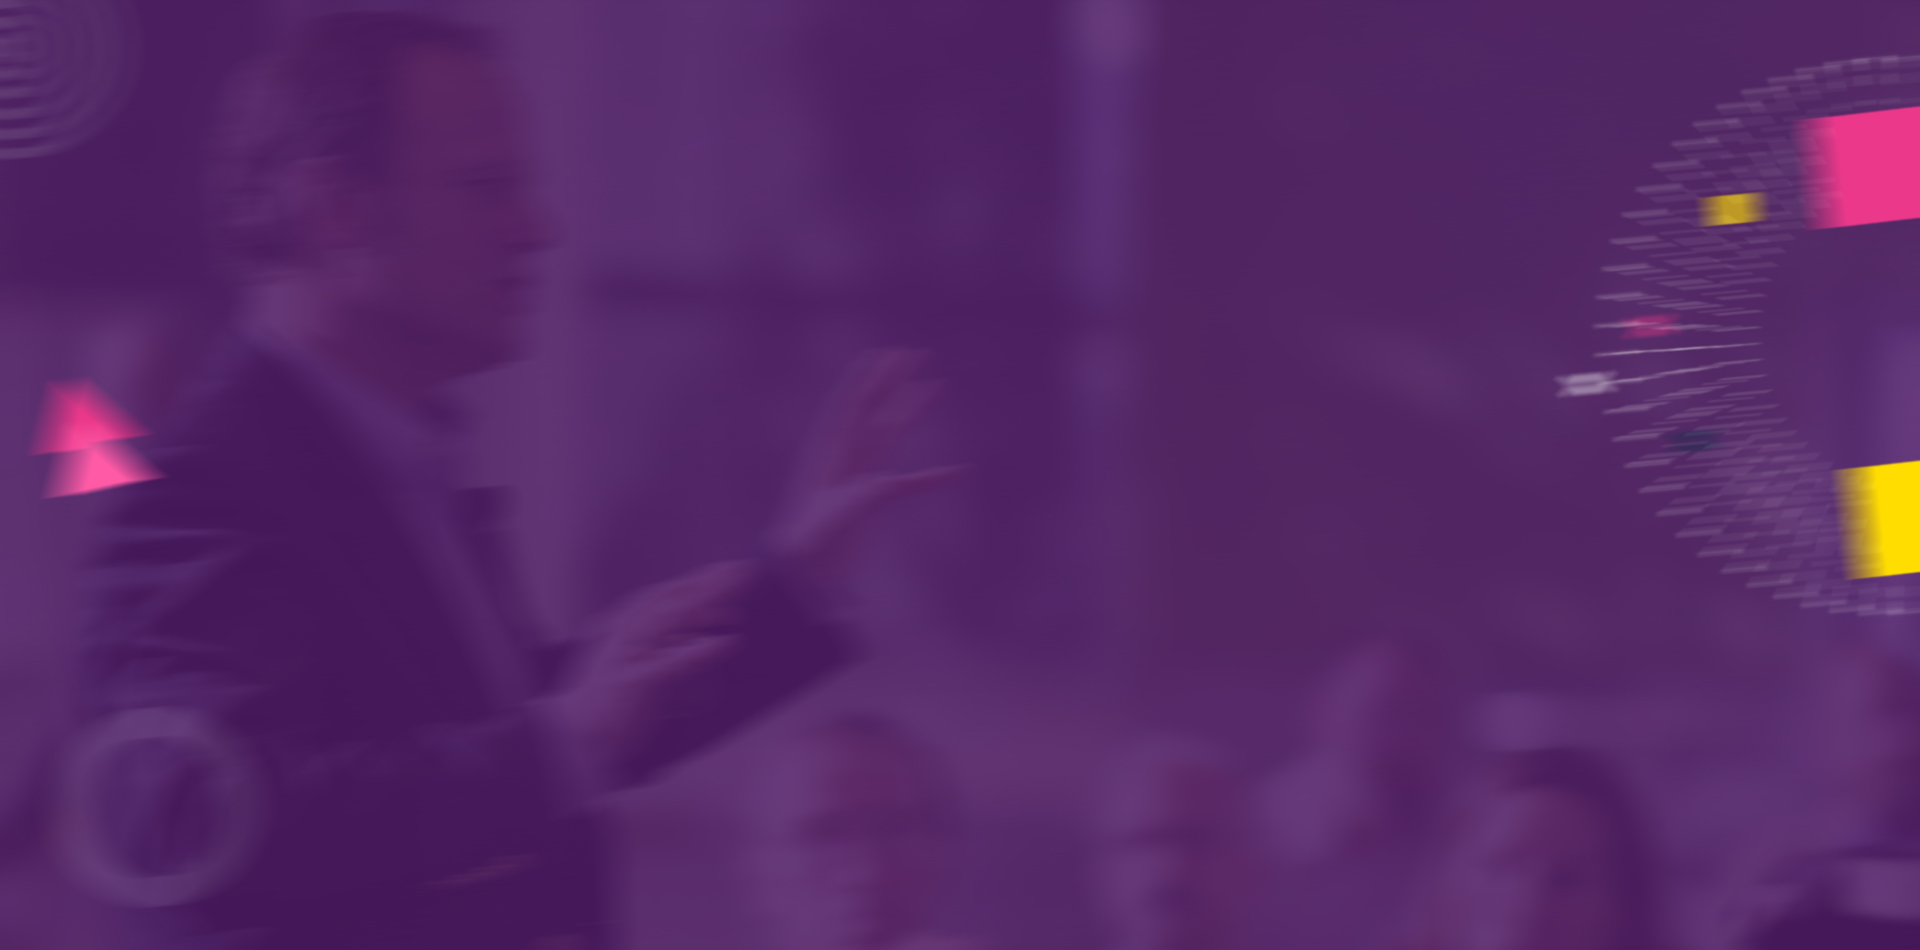
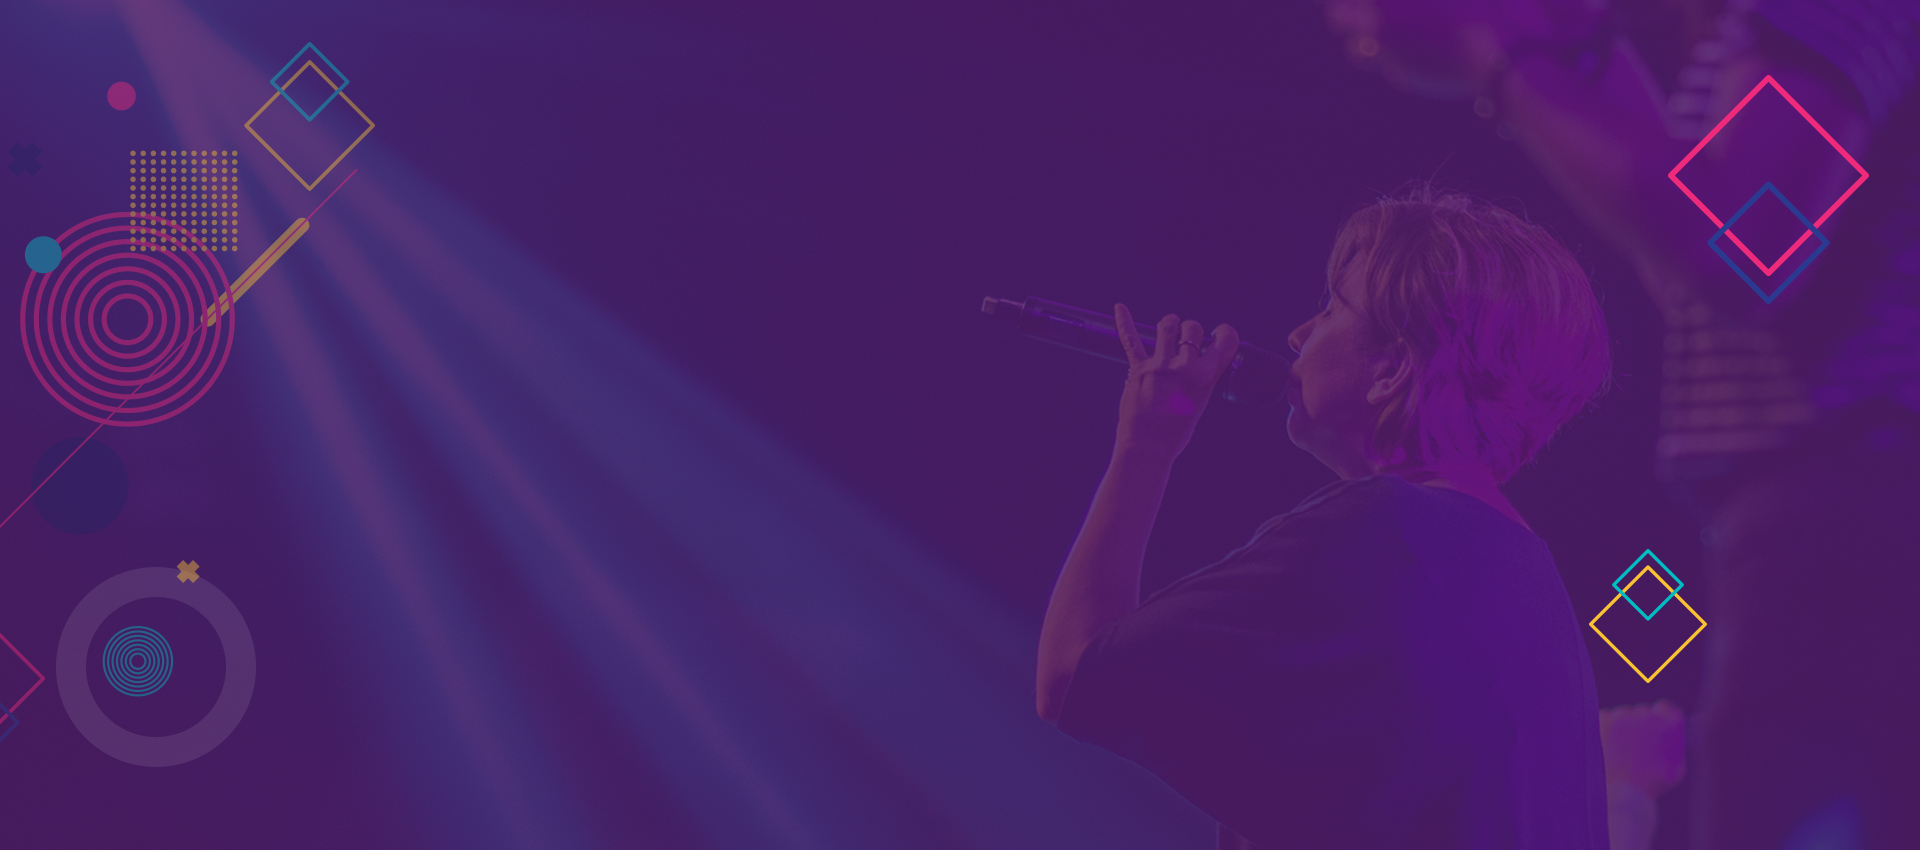
Image auto blur

diff --git a/css/style.css b/css/style.css
@@ -55,6 +55,7 @@
 
 html, body {
   font-family: 'Roboto', sans-serif;
+  overflow-x: hidden;
 }
 
 /*===================
@@ -62,13 +63,25 @@ html, body {
 ====================*/
 #event_header {
   padding: 40px 0;
+  position: relative;
+}
+#event_header:after {
+  position: absolute;
+  content: '';
+  top: 0;
+  left: 0;
+  width: 100%;
+  height: 100%;
+  filter: blur(2px);
   background: url(../images/bg-header.jpg);
   background-size: cover;
   background-position: center center;
-  text-align: center;
+  z-index: -1;
+  transform: scale(1.1);
 }
 
 .header_content_area {
+  text-align: center;
   position: relative;
 }
 .header_content_area .event_header_img {
@@ -108,7 +121,51 @@ html, body {
 .header_content_area .overlay_content .sd_ev_btn:hover {
   background: #F59A0D;
 }
+.header_content_area .overlay_content .play {
+  position: absolute;
+  right: 15%;
+  top: 50%;
+  transform: translateY(-50%);
+}
+.header_content_area .overlay_content .play a {
+  color: #fff;
+}
+.header_content_area .overlay_content .play i {
+  font-size: 55px;
+  box-shadow: 0 0 0 rgba(204, 169, 44, 0.4);
+  animation: pulse 2s infinite;
+  border-radius: 50%;
+}
 
+@-webkit-keyframes pulse {
+  0% {
+    -webkit-box-shadow: 0 0 0 0 rgba(204, 169, 44, 0.4);
+  }
+
+  70% {
+    -webkit-box-shadow: 0 0 0 40px rgba(204, 169, 44, 0);
+  }
+
+  100% {
+    -webkit-box-shadow: 0 0 0 0 rgba(204, 169, 44, 0);
+  }
+}
+@keyframes pulse {
+  0% {
+    -moz-box-shadow: 0 0 0 0 rgba(204, 169, 44, 0.4);
+    box-shadow: 0 0 0 0 rgba(204, 169, 44, 0.4);
+  }
+
+  70% {
+    -moz-box-shadow: 0 0 0 40px rgba(204, 169, 44, 0);
+    box-shadow: 0 0 0 40px rgba(204, 169, 44, 0);
+  }
+
+  100% {
+    -moz-box-shadow: 0 0 0 0 rgba(204, 169, 44, 0);
+    box-shadow: 0 0 0 0 rgba(204, 169, 44, 0);
+  }
+}
 #button_area {
   padding: 20px 0 0;
 }
@@ -147,7 +204,11 @@ html, body {
 }
 #event_details .ev_artical {
   padding: 20px;
-  box-shadow: 0 1px 4px rgba(0, 0, 0, 0.3), 0 0 40px rgba(0, 0, 0, 0.1);
+  box-shadow: 1px 1px 4px 1px #ddd;
+  transition: all 0.5s ease;
+}
+#event_details .ev_artical:hover {
+  box-shadow: 1px 1px 12px 5px #ddd;
 }
 #event_details .ev_artical .gs-header-mata {
   margin-bottom: 20px;
@@ -176,11 +237,11 @@ html, body {
 }
 #address .map_addres {
   background: #f8f8f8;
-  box-shadow: 1px 3px 8px 3px #ddd;
-  transition: all 0.9s ease;
+  box-shadow: 1px 1px 4px 1px #ddd;
+  transition: all 0.5s ease;
 }
 #address .map_addres:hover {
-  box-shadow: none;
+  box-shadow: 1px 1px 12px 5px #ddd;
 }
 #address .ev_address h1 {
   font-size: 16px;
@@ -211,12 +272,12 @@ html, body {
 }
 #gallery .gallery_area {
   background: #f8f8f8;
-  box-shadow: 1px 3px 8px 3px #ddd;
-  transition: all 0.9s ease;
   padding: 15px;
+  box-shadow: 1px 1px 4px 1px #ddd;
+  transition: all 0.5s ease;
 }
 #gallery .gallery_area:hover {
-  box-shadow: none;
+  box-shadow: 1px 1px 12px 5px #ddd;
 }
 #gallery .gallery_area .gal_title {
   margin-bottom: 25px;
@@ -302,6 +363,18 @@ html, body {
     display: block;
   }
 }
+@media (max-width: 768px) {
+  .header_content_area .overlay_content .play {
+    position: static;
+    right: auto;
+    top: auto;
+    transform: translateY(10px);
+  }
+
+  .ev_address {
+    padding: 0 0px 15px 15px;
+  }
+}
 /*******************************************************/
 /*******************************************************/
 @media (min-width: 1200px) {
@@ -356,7 +429,7 @@ html, body {
     position: absolute;
     top: 30%;
     transform: rotate(90deg);
-    left: -160px;
+    left: -139px;
   }
   .event-btn-group .btn {
     border-radius: 0;
@@ -366,9 +439,6 @@ html, body {
   .event-btn-group .btn:focus {
     background: #F59A0D;
     border-color: #F59A0D;
-  }
-  .event-btn-group .videoIcon {
-    transform: rotate(270deg);
   }
 }
 /* ==============

diff --git a/scss/layout/_event.scss b/scss/layout/_event.scss
@@ -5,6 +5,7 @@
 
 html,body{
 	font-family: 'Roboto', sans-serif;
+	overflow-x: hidden;
 }
 
 /*===================
@@ -13,14 +14,26 @@ html,body{
 
 #event_header{
 	padding: 40px 0;
-	background: url(../images/bg-header.jpg);
-	background-size: cover;
-	background-position: center center;
-    text-align: center;
+    position: relative;
+    &:after{
+		position: absolute;
+		content: '';
+		top:0;
+		left: 0;
+		width: 100%;
+		height: 100%;
+		filter: blur(2px);
+		background: url(../images/bg-header.jpg);
+		background-size: cover;
+		background-position: center center;
+		z-index: -1;
+		transform: scale(1.1);
+    }
 }
 
 
 .header_content_area{
+	text-align: center;
 	position: relative;
 	.event_header_img{
 		width: 100%;
@@ -58,7 +71,49 @@ html,body{
 				background: #F59A0D;
 			}
 		}
+		.play{
+			position: absolute;
+			right: 15%;
+			top:50%;
+			transform: translateY(-50%);
+			a{
+				color: #fff;
+			}
+			i{
+				font-size: 55px;
+				box-shadow: 0 0 0 rgba(204,169,44, 0.4);
+  				animation: pulse 2s infinite;
+  				border-radius: 50%;
+			}
+		}
 	}
+}
+
+
+@-webkit-keyframes pulse {
+  0% {
+    -webkit-box-shadow: 0 0 0 0 rgba(204,169,44, 0.4);
+  }
+  70% {
+      -webkit-box-shadow: 0 0 0 40px rgba(204,169,44, 0);
+  }
+  100% {
+      -webkit-box-shadow: 0 0 0 0 rgba(204,169,44, 0);
+  }
+}
+@keyframes pulse {
+  0% {
+    -moz-box-shadow: 0 0 0 0 rgba(204,169,44, 0.4);
+    box-shadow: 0 0 0 0 rgba(204,169,44, 0.4);
+  }
+  70% {
+      -moz-box-shadow: 0 0 0 40px rgba(204,169,44, 0);
+      box-shadow: 0 0 0 40px rgba(204,169,44, 0);
+  }
+  100% {
+      -moz-box-shadow: 0 0 0 0 rgba(204,169,44, 0);
+      box-shadow: 0 0 0 0 rgba(204,169,44, 0);
+  }
 }
 
 #button_area{
@@ -99,8 +154,11 @@ html,body{
 	padding: 20px 0;
 	.ev_artical{
 		padding: 20px;
-		box-shadow:0 1px 4px rgba(0, 0, 0, 0.3), 0 0 40px rgba(0, 0, 0, 0.1);
-
+		box-shadow: 1px 1px 4px 1px #ddd;
+		transition: all 0.5s ease;
+		&:hover{
+			box-shadow: 1px 1px 12px 5px #ddd;
+		}
 		.gs-header-mata{
 			margin-bottom: 20px;
 			display: flex;
@@ -132,10 +190,10 @@ html,body{
 	padding: 20px 0;
 	.map_addres{
 		background: #f8f8f8;
-		box-shadow: 1px 3px 8px 3px #ddd;
-		transition: all 0.9s ease;
+		box-shadow: 1px 1px 4px 1px #ddd;
+		transition: all 0.5s ease;
 		&:hover{
-			box-shadow: none;
+			box-shadow: 1px 1px 12px 5px #ddd;
 		}
 	}
 	.ev_address{
@@ -171,11 +229,11 @@ html,body{
 	padding: 20px 0;
 	.gallery_area{
 		background: #f8f8f8;
-		box-shadow: 1px 3px 8px 3px #ddd;
-		transition: all 0.9s ease;
 		padding: 15px;
+		box-shadow: 1px 1px 4px 1px #ddd;
+		transition: all 0.5s ease;
 		&:hover{
-			box-shadow: none;
+			box-shadow: 1px 1px 12px 5px #ddd;
 		}
 		.gal_title{
 			margin-bottom: 25px;
@@ -269,6 +327,21 @@ html,body{
 		display: block;
 	}
 }
+@media (max-width: 768px) {
+	.header_content_area {
+		.overlay_content{
+			.play{
+				position: static;
+				right: auto;
+				top: auto;
+				transform: translateY(10px);
+			}
+		}
+	}
+	.ev_address{
+		padding: 0 0px 15px 15px;
+	}
+}
 
 
 /*******************************************************/
@@ -327,7 +400,7 @@ html,body{
 		position: absolute;
 		top: 30%;
 		transform: rotate(90deg);
-		left: -160px;
+		left: -139px;
 		.btn{
 			border-radius: 0;
 			background: #F59A0D;
@@ -336,9 +409,6 @@ html,body{
 				background: #F59A0D;
 				border-color: #F59A0D;
 			}
-		}
-		.videoIcon{
-			transform: rotate(270deg);
 		}
 	}
 }

diff --git a/index.html b/index.html
@@ -41,7 +41,6 @@
               <a href="#" class="btn btn-primary">All Events</a>
               <a href="#address" class="btn btn-primary">Location</a>
               <a href="#gallery" class="btn btn-primary">gallery</a>
-              <a href="#" class="btn btn-primary"><i class="fa fa-video-camera videoIcon" aria-hidden="true"></i></a>
             </div>
 
             <div class="overlay_content">
@@ -49,6 +48,9 @@
               <h2>E-Commerce Training</h2>
               <p>Book Your Ticket Here</p>
               <a href="#" class="btn btn-primary sd_ev_btn" data-toggle="modal" data-target="#myModal">Book Now</a>
+              <div class="play">
+                <a href=""><i class="fa fa-play-circle" aria-hidden="true"></i></a>
+              </div>
             </div>
           </div>
         </div>
